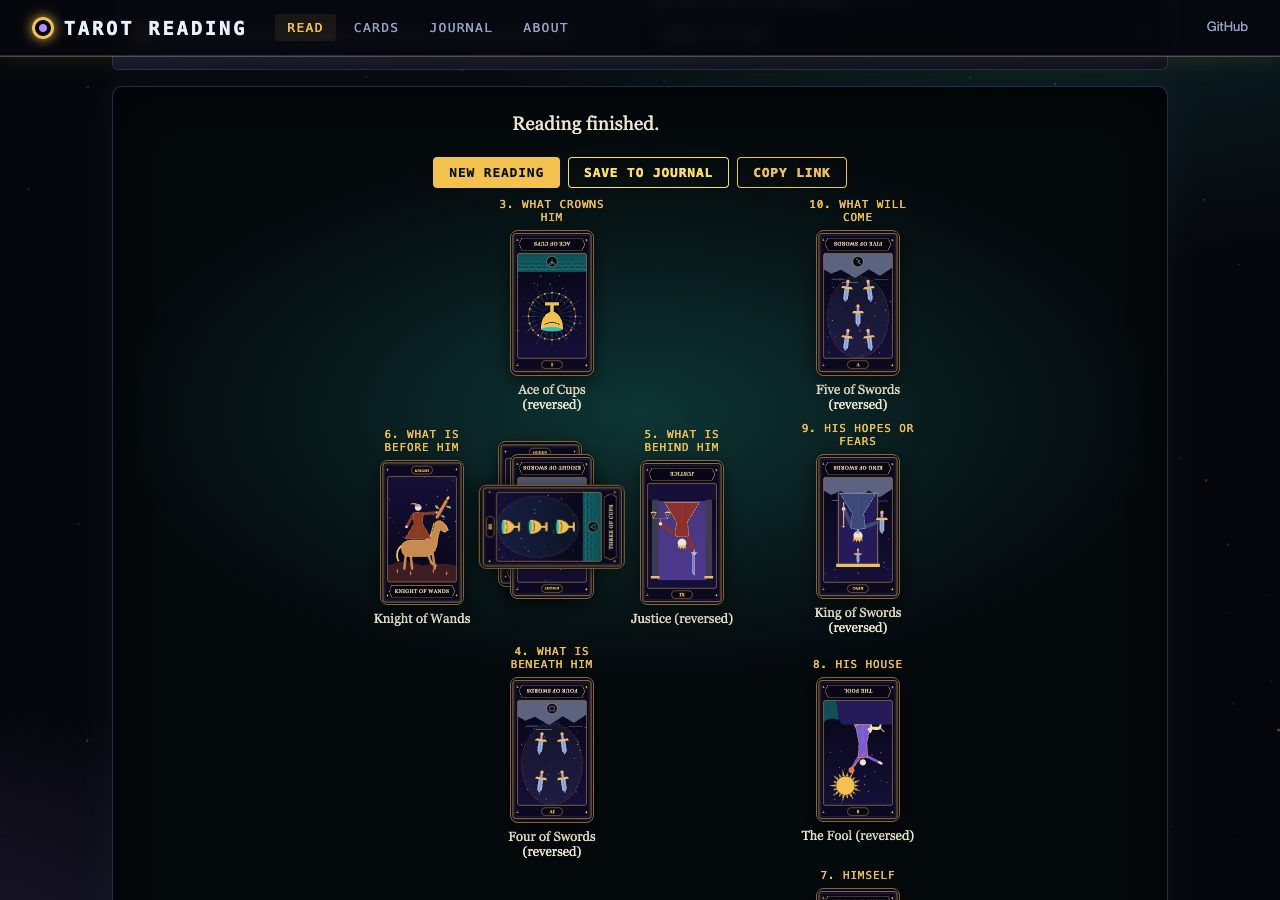
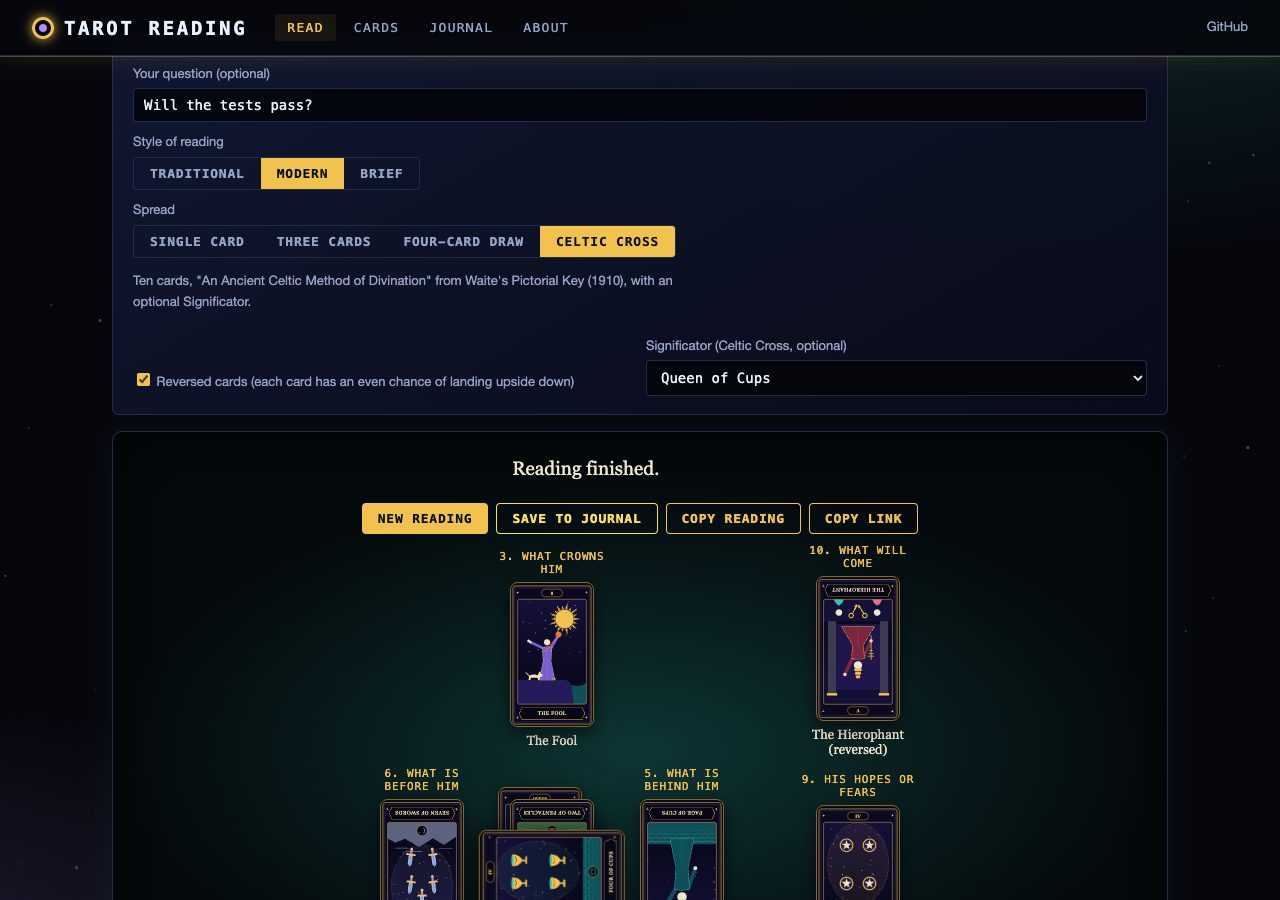
Show the written reading on the Read page, copy it, and keep it in the journal
The reading appears below the table as the cards are turned: the introduction at once, each card's
passage as it is turned over (Waite's own words folded underneath), and the summary, threads,
reflection and questions once every card is face up (static/reading_view.js). A "Style of
reading" control chooses Traditional, Modern or Brief; changing it or the question rewrites the
text for the same cards. New "Copy reading" button; "Copy link" now carries the tone and the
question, so the link gives the same text. The old "Cards that recur" box (which quoted Waite's
"dangerous illness") is replaced by the Numbers thread, which leaves health readings aside.

Journal entries keep the tone and the reading's text (journal_model.js and web/journal.py, same
rules; older entries load unchanged); the journal page shows it, Markdown export includes it, and
"Open reading" reopens it in the same tone. In the local app started with --ollama, an "Ask a
local AI to elaborate" button appears after the reading.

Smoke test: no threads before the last card, ten passages and three questions after, the reading
saved in the journal, and the share link writing the same text; new screenshot docs/img/reading_text.jpg.

Changed region(s): [[0.0625, 0.0622, 0.8125, 1.0], [0.875, 0.0933, 0.9062, 0.1556]]

diff --git a/static/read.js b/static/read.js
@@ -1,27 +1,49 @@
 // #/read : a reading at the table: choose a spread, shuffle, cut, deal, turn the cards over,
-// then read Waite's meanings, save to the journal or copy a link that reproduces the reading.
-import { $, $$, esc, route, app, list, api } from './core.js';
-import { CARD, CARDS, SPREADS, SUITS, RANK_PLURAL, deckById, randomSeed, readingToQuery, queryToArgs,
+// then read the written reading (reading_view.js), save it to the journal, copy it, or copy a link that reproduces it.
+import { $, $$, esc, route, app, list, api, isStatic } from './core.js';
+import { CARD, CARDS, SPREADS, SUITS, deckById, randomSeed, readingToQuery, queryToArgs,
   drawQuery } from './engine.js';
-import { cardEl, cardTags, meaningHTML, cite, prefs } from './widgets.js';
+import { cardEl, prefs } from './widgets.js';
+import { TONES } from './reading_phrases.js';
+import { readingHTML } from './reading_view.js';
 import { makeEntry } from './journal_model.js';
 import { journalApi, inBrowser } from './journal_api.js';
 import { packHTML, shuffleAnim, cutAnim, dealAnim, flip } from './anim.js';
 
 let S = null; // state of the reading on screen
 
-// A reading from the API (the Python server's /api/draw, or static_api.js on the static site): the same arguments
-// give the same cards either way. A copy, because the page marks cards as shown.
-const draw = async args => structuredClone(await api('/draw?' + drawQuery(args)));
+// A reading and its written interpretation from the API (the Python server's /api/reading, or static_api.js on the
+// static site): the same arguments, question and tone give the same cards and text either way. A copy, because the
+// page marks cards as shown.
+const readingQuery = (args, question, tone) => `/reading?${drawQuery(args)}&${new URLSearchParams({ q: question, tone })}`;
+async function draw(args) {
+  const { interpretation, ...r } = structuredClone(await api(readingQuery(args, S.question, S.tone)));
+  S.interp = interpretation;
+  return r;
+}
+// The question or tone changed: the same cards, the text written again.
+async function rewrite() {
+  if (!S.reading) return;
+  const r = S.reading;
+  try {
+    S.interp = (await api(readingQuery({ seed: r.seed, spread: r.spread, cutAt: r.cutAt, reversals: r.reversals,
+      significator: r.significator }, S.question, S.tone))).interpretation;
+    S.saved = false; S.aiText = null;
+    redraw();
+  } catch (e) { setStatus('Could not write the reading: ' + e.message); }
+}
 
 route('read', async (args, q) => {
-  const link = queryToArgs(q), shared = link ? await draw(link) : null;
-  S = {
+  const link = queryToArgs(q);
+  S = { question: String(q.q || '').slice(0, 300), tone: TONES[q.tone] ? q.tone : prefs.get('tone', 'modern') };
+  if (!TONES[S.tone]) S.tone = 'modern';
+  const shared = link ? await draw(link) : null;
+  S = { ...S, interp: S.interp || null,
     deck: 'night',
     spread: SPREADS[q.spread] ? q.spread : 'three',
     reversals: q.rev ? q.rev !== '0' : prefs.get('rev', '1') !== '0',
     significator: shared ? shared.significator : null,
-    question: '', seed: shared ? shared.seed : randomSeed(), reading: shared, saved: false, phase: 'ready',
+    seed: shared ? shared.seed : randomSeed(), reading: shared, saved: false, phase: 'ready',
   };
   app().innerHTML = `
     <div class="hero"><p class="kicker">A reading</p><h1 class="glow">${shared ? 'A shared reading' : 'Time to choose a card'}</h1>
@@ -30,6 +52,9 @@ route('read', async (args, q) => {
       <div class="row">
         <div><label for="question">Your question (optional)</label><input id="question" maxlength="300" placeholder="What is on your mind?"></div>
       </div>
+      <label id="tone-l">Style of reading</label>
+      <div class="seg" role="group" aria-labelledby="tone-l" id="tones">${list(Object.entries(TONES),
+        ([k, t]) => `<button type="button" data-tone="${k}" aria-pressed="false">${t}</button>`)}</div>
       <label id="spread-l">Spread</label>
       <div class="seg" role="group" aria-labelledby="spread-l" id="spreads">${list(Object.entries(SPREADS),
         ([k, s]) => `<button type="button" data-sp="${k}" aria-pressed="false">${s.label}</button>`)}</div>
@@ -51,19 +76,34 @@ route('read', async (args, q) => {
       <div class="controls" id="controls"></div>
       <div id="layout"></div>
     </section>
-    <section id="interp" aria-live="polite"></section>`;
+    <section id="interp" aria-labelledby="reading-h"></section>`;
   $('#rev').checked = S.reversals;
   $('#sig').value = S.significator || '';
   $('#rev').onchange = e => { S.reversals = e.target.checked; prefs.set('rev', S.reversals ? '1' : '0'); restart(); };
   $('#sig').onchange = e => { S.significator = e.target.value || null; restart(); };
+  $('#question').value = S.question;
   $('#question').oninput = e => { S.question = e.target.value; };
+  $('#question').onchange = rewrite;
+  $$('#tones button').forEach(b => {
+    b.onclick = () => { S.tone = b.dataset.tone; prefs.set('tone', S.tone); toneButtons(); rewrite(); };
+  });
+  toneButtons();
+  // the optional local-AI button: only in the local app started with --ollama MODEL (web/elaborate.py)
+  if (!isStatic()) {
+    api('/info', { fresh: true }).then(i => { S.ai = i.elaborate || null; if (S.phase === 'revealed') redraw(); })
+      .catch(() => { S.ai = null; });
+  }
   $$('#spreads button').forEach(b => { b.onclick = () => { S.spread = b.dataset.sp; restart(); }; });
   $('#cut').oninput = e => { $('#cutv').textContent = e.target.value; };
   if (shared) { S.phase = 'revealed'; redraw(); } else restart();
 });
 
+function toneButtons() {
+  $$('#tones button').forEach(b => { const on = b.dataset.tone === S.tone; b.classList.toggle('on', on); b.setAttribute('aria-pressed', on); });
+}
+
 function restart() {
-  S.seed = randomSeed(); S.reading = null; S.saved = false; S.phase = 'ready';
+  S.seed = randomSeed(); S.reading = null; S.interp = null; S.aiText = null; S.saved = false; S.phase = 'ready';
   redraw();
 }
 
@@ -90,7 +130,8 @@ function redraw() {
     cut: btn('b-deal', 'Deal'),
     dealt: btn('b-reveal', 'Reveal all') + btn('b-new', 'New reading', true),
     revealed: btn('b-new', 'New reading') + btn('b-save', S.saved ? 'Saved' : 'Save to journal', true)
-      + btn('b-share', 'Copy link', true),
+      + btn('b-copy', 'Copy reading', true) + btn('b-share', 'Copy link', true)
+      + (S.ai && S.interp && !S.interp.sensitive ? btn('b-ai', 'Ask a local AI to elaborate', true) : ''),
   }[S.phase];
   setStatus({ ready: 'Time to choose a card.', shuffled: 'Shuffled. Cut the deck wherever you like.',
     cut: 'Reading started! Deal the cards.', dealt: 'Turn the cards over one at a time, or reveal them all.',
@@ -99,6 +140,7 @@ function redraw() {
   const on = (id, fn) => { const b = $('#' + id); if (b) b.onclick = fn; };
   on('b-shuffle', doShuffle); on('b-cut', () => doCut(+$('#cut').value)); on('b-skipcut', () => doCut(null));
   on('b-deal', doDeal); on('b-reveal', revealAll); on('b-new', restart); on('b-save', save); on('b-share', share);
+  on('b-copy', copyReading); on('b-ai', elaborate);
   if ($('#b-save') && S.saved) $('#b-save').disabled = true;
   $$('#layout .tcard').forEach(el => { el.onclick = () => turn(el); });
   renderInterp();
@@ -171,27 +213,16 @@ function renderInterp() {
   const host = $('#interp');
   if (!host) return;
   const r = S.reading;
-  if (!r || !r.cards.some(c => c.shown)) { host.innerHTML = ''; return; }
-  const shown = r.cards.map((c, i) => [c, i]).filter(([c]) => c.shown);
-  const rec = S.phase === 'revealed' ? r.recurrences : [];
-  host.innerHTML = `<h2>The cards</h2>
-    ${S.question ? `<p class="quote">“${esc(S.question)}”</p>` : ''}
-    ${r.significator ? `<p>Significator: <a href="#/card/${r.significator}">${CARD[r.significator].name}</a></p>` : ''}
-    <div class="interp">${shown.map(([c, i]) => `<div class="panel it">
-      ${cardEl(c.id, { deck: S.deck, reversed: c.reversed, up: true, still: true })}
-      <div><h3>${i + 1}. ${esc(c.pos)}</h3>
-        <b class="serif" style="font-size:20px">${CARD[c.id].name}</b>
-        <span class="pill ${c.reversed ? 'rev' : 'up'}">${c.reversed ? 'reversed' : 'upright'}</span> ${cardTags(CARD[c.id])}
-        ${meaningHTML(c.id, c.reversed)}
-        <a class="small" href="#/card/${c.id}">More about this card</a></div></div>`).join('')}</div>
-    ${rec.length ? `<h2>Cards that recur</h2><div class="callout">${rec.map(x => `<p class="quote">${x.count} ${RANK_PLURAL[x.rank]}
-      ${x.mode === 'reversed' ? 'reversed' : 'upright'}: <b>${esc(x.meaning)}</b></p>`).join('')}
-      <p class="src">From Waite, Part III §5, "The Recurrence of Cards in Dealing" (upright and reversed counted separately).</p></div>` : ''}
-    ${cite()}`;
+  if (!r || !S.interp || !r.cards.some(c => c.shown)) { host.innerHTML = ''; return; }
+  host.innerHTML = readingHTML(S.interp, r, { complete: S.phase === 'revealed', deck: S.deck })
+    + (S.aiText ? `<section class="panel ai-note" aria-labelledby="ai-h"><h3 id="ai-h">A local AI's elaboration</h3>
+      <p class="small mute">Written by ${esc(S.aiText.model)} through Ollama on this computer, not by the reading engine. For
+      entertainment, like the rest.</p>${S.aiText.text.split(/\n+/).map(t => `<p>${esc(t)}</p>`).join('')}</section>` : '');
 }
 
 async function save() {
-  const entry = makeEntry(S.reading, { deck: S.deck, question: S.question });
+  const entry = makeEntry(S.reading, { deck: S.deck, question: S.question, tone: S.interp && S.interp.tone,
+    text: S.interp ? S.interp.text : '' });
   try {
     await journalApi('/journal/add', { entry });
     S.saved = true; $('#b-save').textContent = 'Saved'; $('#b-save').disabled = true;
@@ -199,8 +230,32 @@ async function save() {
   } catch (e) { setStatus('Could not save: ' + e.message); }
 }
 
+// The link deals the same cards and, with the question and tone in it, writes the same text.
 async function share() {
-  const url = location.href.split('#')[0] + '#/read?' + readingToQuery(S.reading, S.deck);
-  try { await navigator.clipboard.writeText(url); setStatus('Link copied: it opens this same reading.'); }
+  const extra = new URLSearchParams({ tone: S.tone });
+  if (S.question.trim()) extra.set('q', S.question.trim());
+  const url = location.href.split('#')[0] + '#/read?' + readingToQuery(S.reading, S.deck) + '&' + extra;
+  const note = S.question.trim() ? ' (your question is part of the link)' : '';
+  try { await navigator.clipboard.writeText(url); setStatus(`Link copied: it opens this same reading${note}.`); }
   catch (e) { setStatus('Copy this link: ' + url); }
+}
+
+async function copyReading() {
+  if (!S.interp) return;
+  try { await navigator.clipboard.writeText(S.interp.text); setStatus('Reading copied as text.'); }
+  catch (e) { setStatus('Could not copy: select the text of the reading instead.'); }
+}
+
+// Local app only, and only when started with --ollama MODEL: the server rebuilds this reading and asks the model.
+async function elaborate() {
+  const r = S.reading, b = $('#b-ai');
+  if (b) b.disabled = true;
+  setStatus('Asking the local AI (this can take a minute)...');
+  try {
+    S.aiText = await api('/elaborate', { body: { spread: r.spread, seed: r.seed, cut: r.cutAt, rev: r.reversals,
+      sig: r.significator, q: S.question, tone: S.tone } });
+    setStatus('The local AI has answered (below the reading).');
+    renderInterp();
+  } catch (e) { setStatus('The local AI could not answer: ' + e.message); }
+  if (b) b.disabled = false;
 }

diff --git a/static/reading_view.js b/static/reading_view.js
@@ -1,0 +1,33 @@
+// The written reading on the Read page, as HTML: the introduction at once, one passage per card as it is turned,
+// and the summary, threads, reflection and questions once every card is face up. The text itself comes from the
+// reading engine (reading_engine.js, or the local app's /api/reading, which gives the same text).
+import { esc } from './core.js';
+import { CARD } from './engine.js';
+import { cardEl, cardTags, meaningHTML, WAITE_CITE } from './widgets.js';
+
+const paras = list => list.map(p => `<p>${esc(p)}</p>`).join('');
+
+export function readingHTML(it, reading, { complete = false, deck = 'night' } = {}) {
+  const shown = it.positions.filter(p => reading.cards[p.i] && reading.cards[p.i].shown);
+  const sig = reading.significator;
+  return `<h2 id="reading-h">Your reading</h2>
+    <div class="reading-intro">${paras(it.intro)}${complete ? paras(it.summary) : ''}</div>
+    ${sig && it.positions.length ? `<p class="small">Significator: <a href="#/card/${sig}">${esc(CARD[sig].name)}</a></p>` : ''}
+    ${shown.length ? `<div class="interp">${shown.map(p => `<article class="panel it" aria-labelledby="pos-${p.i}">
+      ${cardEl(p.id, { deck, reversed: p.reversed, up: true, still: true })}
+      <div><h3 id="pos-${p.i}">${esc(p.heading)}</h3>
+        <p class="reading-text">${esc(p.text)}</p>
+        <details><summary>Waite's own words ${cardTags(CARD[p.id])}</summary>${meaningHTML(p.id, p.reversed)}</details>
+        <a class="small" href="#/card/${p.id}">More about this card</a></div></article>`).join('')}</div>` : ''}
+    ${complete ? completeHTML(it) : it.positions.length ? '<p class="small mute">Turn every card over for the whole reading.</p>' : ''}`;
+}
+
+function completeHTML(it) {
+  return `${it.threads.length ? `<h2>Threads</h2><div class="threads">${it.threads.map(t => `<section class="panel thread">
+      <h3>${esc(t.title)}</h3><p>${esc(t.text)}</p></section>`).join('')}</div>` : ''}
+    ${it.closing.length ? `<h2>Reflection</h2>${paras(it.closing)}` : ''}
+    ${it.questions.length ? `<h3>Questions to consider</h3><ul class="questions">${it.questions.map(q => `<li>${esc(q)}</li>`).join('')}</ul>` : ''}
+    ${it.note ? `<p class="small mute">${esc(it.note)}</p>` : ''}
+    <p class="src">The reading is written by this site's rule-based reading engine from ${WAITE_CITE}, and from traditional
+      correspondences (Golden Dawn elements and dignities, number and court-card meanings); see <a href="#/about">About</a>.</p>`;
+}

diff --git a/static/journal_model.js b/static/journal_model.js
@@ -3,8 +3,12 @@ import { CARD, SPREADS, deckById } from './engine.js';
 
 export const JOURNAL_FORMAT = 'tarot-journal';
 export const JOURNAL_VERSION = 1;
+// Tones of the written reading (reading_phrases.js TONES); `reading` is its plain text, kept with the entry.
+export const READING_TONES = ['traditional', 'modern', 'brief'];
+export const READING_MAX = 20000;
 
-export function makeEntry(reading, { deck = 'night', question = '', note = '', date = new Date() } = {}) {
+export function makeEntry(reading, { deck = 'night', question = '', note = '', date = new Date(), tone = null,
+  text = '' } = {}) {
   const iso = (date instanceof Date ? date : new Date(date)).toISOString();
   return {
     id: `${iso.replace(/\D/g, '').slice(0, 14)}-${reading.seed.toString(36)}`,
@@ -12,6 +16,7 @@ export function makeEntry(reading, { deck = 'night', question = '', note = '', d
     reversals: !!reading.reversals, significator: reading.significator || null,
     question: String(question).slice(0, 500), note: String(note).slice(0, 5000),
     cards: reading.cards.map(({ pos, id, reversed }) => ({ pos, id, reversed: !!reversed })),
+    tone: READING_TONES.includes(tone) ? tone : null, reading: String(text).slice(0, READING_MAX),
   };
 }
 
@@ -26,6 +31,7 @@ export function cleanEntry(e) {
     seed: Number(e.seed) >>> 0, cutAt: Number.isInteger(e.cutAt) ? e.cutAt : null, reversals: e.reversals !== false,
     significator: CARD[e.significator] ? e.significator : null,
     question: String(e.question ?? '').slice(0, 500), note: String(e.note ?? '').slice(0, 5000), cards,
+    tone: READING_TONES.includes(e.tone) ? e.tone : null, reading: String(e.reading ?? '').slice(0, READING_MAX),
   };
 }
 
@@ -63,7 +69,8 @@ export function journalToMarkdown(entries) {
     if (e.significator) out.push('', `**Significator:** ${CARD[e.significator].name}`);
     out.push('');
     e.cards.forEach((c, i) => out.push(`${i + 1}. ${c.pos}: ${cardLabel(c)}`));
-    if (e.note) out.push('', e.note);
+    if (e.reading) out.push('', '### The reading', '', e.reading);
+    if (e.note) out.push('', '### Notes', '', e.note);
     out.push('');
   }
   return out.join('\n');

diff --git a/static/journal_page.js b/static/journal_page.js
@@ -11,6 +11,14 @@ const post = (path, body) => journalApi('/journal/' + path, body);
 
 const when = iso => new Date(iso).toLocaleString(undefined, { dateStyle: 'medium', timeStyle: 'short' });
 
+// "Open reading" deals the same cards and writes the reading again in the saved tone, for the saved question.
+function openLink(e) {
+  const extra = new URLSearchParams();
+  if (e.tone) extra.set('tone', e.tone);
+  if (e.question) extra.set('q', e.question);
+  return '#/read?' + readingToQuery(e, e.deck) + (extra.toString() ? '&' + extra : '');
+}
+
 function entryHTML(e) {
   const d = deckById(e.deck);
   return `<article class="panel jentry" data-id="${esc(e.id)}">
@@ -19,9 +27,11 @@ function entryHTML(e) {
     ${e.significator ? `<p class="small">Significator: ${CARD[e.significator].name}</p>` : ''}
     <div class="thumbs">${e.cards.map((c, i) => `<figure>${thumb(c.id, d, { reversed: c.reversed })}
       <figcaption>${i + 1}. ${esc(CARD[c.id].name)}${c.reversed ? ' (rev.)' : ''}</figcaption></figure>`).join('')}</div>
+    ${e.reading ? `<details class="saved-reading"><summary>The reading${e.tone ? ` (${esc(e.tone)})` : ''}</summary>
+      <pre class="reading-plain">${esc(e.reading)}</pre></details>` : ''}
     <label for="n-${esc(e.id)}">Notes</label>
     <textarea id="n-${esc(e.id)}" data-note maxlength="5000" placeholder="What did you make of it?">${esc(e.note)}</textarea>
-    <a class="btn alt" href="#/read?${readingToQuery(e, e.deck)}">Open reading</a>
+    <a class="btn alt" href="${esc(openLink(e))}">Open reading</a>
     <button type="button" class="alt" data-del>Delete</button>
   </article>`;
 }

diff --git a/static/style_app.css b/static/style_app.css
@@ -121,3 +121,15 @@ h1.glow { font-family:Georgia, "Times New Roman", serif; letter-spacing:.02em; }
   .table { padding:16px 8px 20px; }
 }
 @media (prefers-reduced-motion: reduce) { .tc-inner, .tc-face img, .cg img, .fan .tcard { transition:none !important; } }
+
+/* the written reading (reading_view.js) */
+.reading-intro p { font-family:Georgia, "Times New Roman", serif; font-size:17px; color:#e9e2cf; }
+.reading-text { margin:6px 0 8px; line-height:1.55; }
+.interp details summary { cursor:pointer; color:var(--mute); font-size:13px; }
+.interp details .tag { font-size:11px; }
+.threads { display:grid; gap:12px; }
+.thread h3 { margin:0 0 4px; font-size:16px; }
+.thread p { margin:0; line-height:1.55; }
+.questions li { margin:4px 0; }
+.saved-reading { margin:8px 0; }
+.reading-plain { white-space:pre-wrap; overflow-wrap:anywhere; font-family:inherit; font-size:14px; max-height:420px; overflow:auto; }

diff --git a/tests/smoke_test.py b/tests/smoke_test.py
@@ -108,18 +108,33 @@ def main():
                 pg.locator("#layout .slot.p1 .tcard").click(position={"x": 10, "y": 8})  # its top shows above card 2
                 pg.wait_for_timeout(1000)
                 one = pg.locator("#interp .it").count()
+                early = pg.locator("#interp .thread").count()  # threads wait until every card is up
                 pg.click("#b-reveal")
                 pg.wait_for_selector("#b-save", timeout=15000)
                 up = pg.locator("#layout .tcard.up").count()
                 sig_dealt = pg.locator("#layout .slot:not(.sig) .tcard[data-id=cu13]").count()
                 over = pg.evaluate("document.documentElement.scrollWidth - innerWidth")
+                pg.wait_for_selector("#interp .thread", timeout=5000)
+                texts = pg.locator("#interp .reading-text").all_inner_texts()
+                threads = pg.locator("#interp .thread").count()
+                asks = pg.locator("#interp .questions li").count()
+                intro = pg.inner_text("#interp .reading-intro")
+                check(len(texts) == 10 and threads >= 2 and asks == 3 and early == 0 and "Will the tests pass?" in intro
+                      and all(t.strip() and "undefined" not in t for t in texts) and pg.locator("#b-copy").count() == 1,
+                      f"{width}px written reading: passages={len(texts)} threads={threads} (before reveal {early}) "
+                      f"questions={asks}")
                 if a.shots and width == 1280:
                     pg.screenshot(path=str(ROOT / "docs" / "img" / "reading_celtic.jpg"), quality=82)
+                    pg.add_style_tag(content="header { position: static !important; }")  # no sticky bar over the shot
+                    pg.locator("#interp").screenshot(path=str(ROOT / "docs" / "img" / "reading_text.jpg"), quality=72)
                 pg.click("#b-save")
                 pg.wait_for_selector("#b-save:disabled", timeout=5000)
                 pg.goto(base + "#/journal")
                 pg.wait_for_timeout(600)
                 saved = pg.locator(".jentry").count()
+                kept = pg.locator(".jentry .saved-reading").count()
+                check(kept == 1 and "Tarot reading: Celtic Cross" in pg.locator(".jentry .saved-reading pre").text_content(),
+                      f"{width}px the written reading is saved in the journal ({kept})")
                 if a.as_remote:  # kept in this browser, not in the app's file
                     stored = pg.evaluate("(localStorage.getItem('tarot.journal.v1') || '').length > 0")
                     check(stored and "kept in this browser" in pg.inner_text("#app"), f"{width}px remote journal in localStorage")
@@ -136,6 +151,9 @@ def main():
                 pg.wait_for_timeout(800)
                 again = [t.strip() for t in pg.locator("#layout .slot:not(.sig) .nm").all_text_contents()]
                 same = [t.split(". ", 1)[1].replace(" (rev.)", " (reversed)") for t in names] == again
+                pg.wait_for_selector("#interp .reading-text", timeout=5000)
+                same_text = pg.locator("#interp .reading-text").all_inner_texts() == texts
+                check(same_text, f"{width}px the link writes the same reading text")
                 check(same and not errors, f"{width}px share link reproduces the reading {'' if same else (names, again)}")
                 pg.close()
             browser.close()

diff --git a/tests/test_web.py b/tests/test_web.py
@@ -188,7 +188,9 @@ def test_journal_round_trip(data_dir):
 def test_clean_entry_matches_js():
     cases = [entry(), entry(question="x" * 600, note=None, seed=-1), entry(cutAt=True, reversals=False, deck="rider"),
              entry(significator="pe13", date="2026-03-04T05:06:07.891+02:00"), {**entry(), "seed": "12"}, {**entry(), "seed": 2.7e10}, {**entry(), "spread": "nope"},
-             {**entry(), "cards": [{"id": "zz"}]}, {**entry(), "date": "never"}, {**entry(), "id": None}, None, []]
+             {**entry(), "cards": [{"id": "zz"}]}, {**entry(), "date": "never"}, {**entry(), "id": None}, None, [],
+             entry(tone="brief", reading="Tarot reading: x\n\nText"), entry(tone="loud", reading=None),
+             entry(reading="y" * 25000), entry(reading=12)]
     js = node(f"""const {{ cleanEntry }} = await import('./static/journal_model.js');
       console.log(JSON.stringify({json.dumps(cases)}.map(cleanEntry)));""")
     assert [J.clean_entry(c) for c in cases] == js

diff --git a/web/journal.py b/web/journal.py
@@ -16,6 +16,8 @@ from .engine import CARD, SPREADS, deck_by_id
 FORMAT = "tarot-journal"
 VERSION = 1
 MAX_ENTRIES = 5000
+READING_TONES = ["traditional", "modern", "brief"]  # journal_model.js READING_TONES
+READING_MAX = 20000
 ROOT = Path(__file__).resolve().parent.parent
 _lock = threading.Lock()
 
@@ -81,6 +83,8 @@ def clean_entry(e) -> dict | None:
         "cutAt": cut_at if isinstance(cut_at, int) and not isinstance(cut_at, bool) else None,
         "reversals": e.get("reversals") is not False, "significator": sig if sig in CARD else None,
         "question": _text(e.get("question"), 500), "note": _text(e.get("note"), 5000), "cards": cards,
+        "tone": e.get("tone") if e.get("tone") in READING_TONES else None,
+        "reading": _text(e.get("reading"), READING_MAX),
     }
 
 
